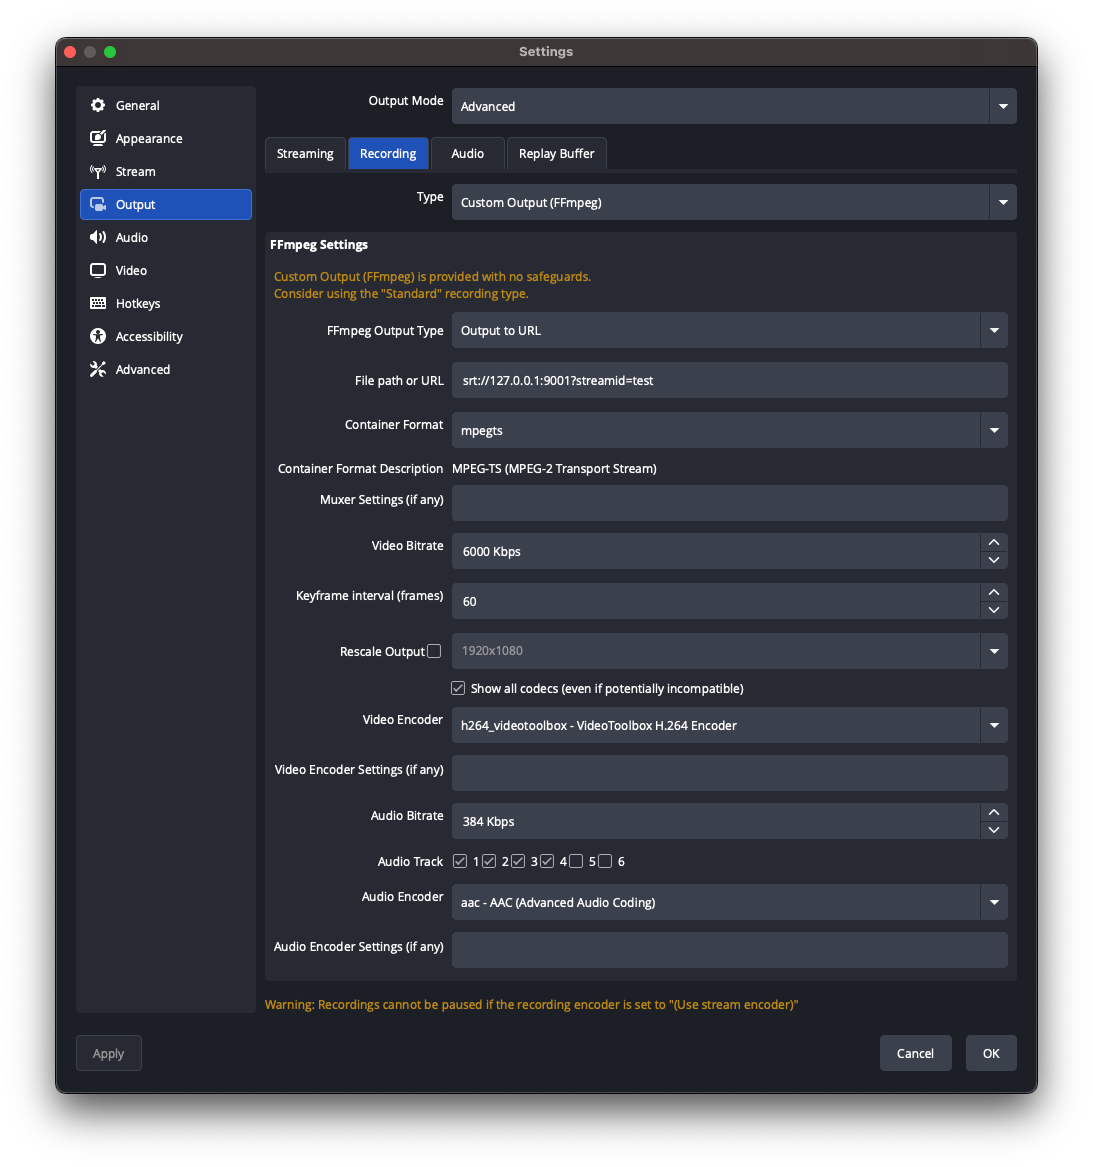
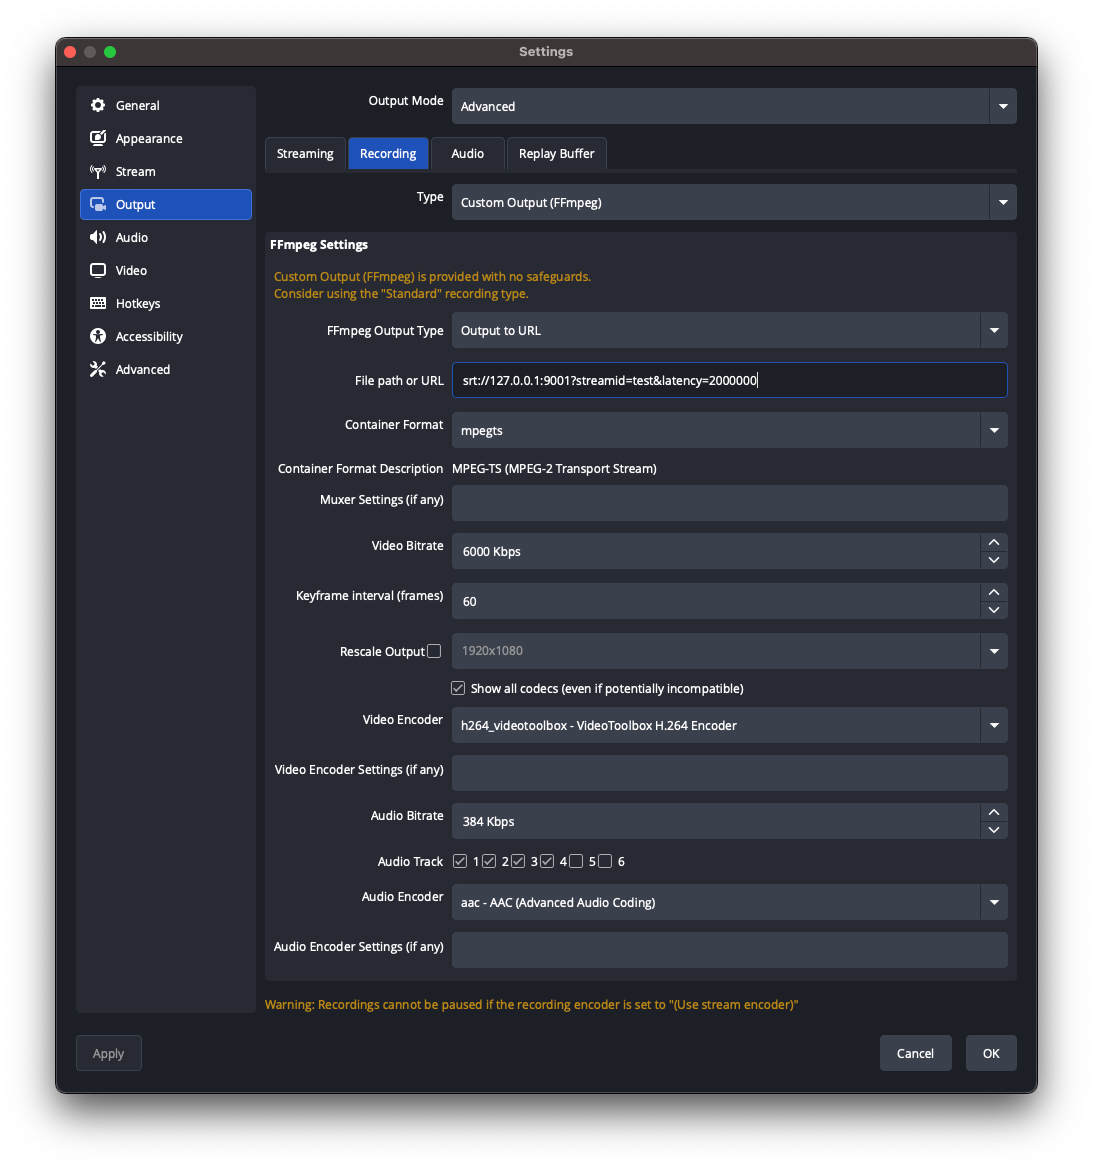
macOS guide: retake the output screenshot with latency in the URL
The captured URL now carries &latency=2000000, so the picture agrees with
the table above it and the trap note below it rather than contradicting
both. Caption keeps the point that only the URL form matters - the host and
port are a local test listener - and the image is scaled down.

Profile and scene collection re-exported from the same OBS state. All three
path keys scrubbed again: a fresh export puts them back, which is why the
fixtures README lists them.

Changed region(s): [[0.4044, 0.3085, 0.9332, 0.3393]]

diff --git a/docs/obs-macos.md b/docs/obs-macos.md
@@ -77,9 +77,9 @@ Three traps in that table, all silent:
 
 Leave **Muxer Settings** empty; PID remapping is cosmetic for an ffmpeg receiver.
 
-<div align="center"><img src="images/obs-macos/07_OBS-recording-streaming-settings.png" width="82%" alt="OBS Settings, Output, Recording tab: Type is Custom Output (FFmpeg), FFmpeg Output Type is Output to URL, an srt:// URL, Container Format mpegts, Video Bitrate 6000 Kbps, Keyframe interval 60, Show all codecs ticked, Video Encoder h264_videotoolbox, Audio Bitrate 384 Kbps, Audio Tracks 1 to 4 ticked, Audio Encoder aac."></div>
+<div align="center"><img src="images/obs-macos/07_OBS-recording-streaming-settings.png" width="57%" alt="OBS Settings, Output, Recording tab: Type is Custom Output (FFmpeg), FFmpeg Output Type is Output to URL, an srt:// URL, Container Format mpegts, Video Bitrate 6000 Kbps, Keyframe interval 60, Show all codecs ticked, Video Encoder h264_videotoolbox, Audio Bitrate 384 Kbps, Audio Tracks 1 to 4 ticked, Audio Encoder aac."></div>
 
-<p align="center"><em>The URL shown is a local loopback target used while capturing. Use the form in the table above, including <code>&amp;latency=2000000</code> - SRT's default is about 120 ms, which survives loopback and little else.</em></p>
+<p align="center"><em>Captured against a local test listener; point the host and port at your own box. The URL form is what matters - note <code>&amp;latency=2000000</code>, since SRT's default of about 120 ms survives loopback and little else.</em></p>
 
 
 ## 4. Push it
